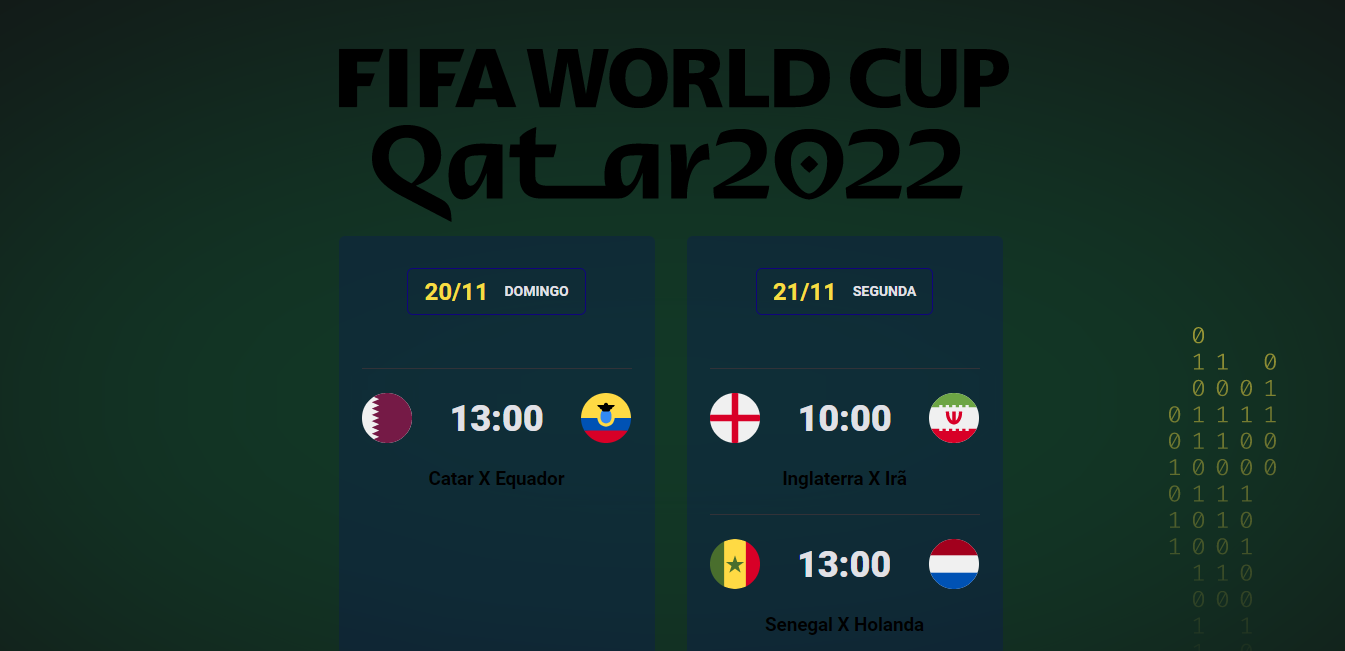
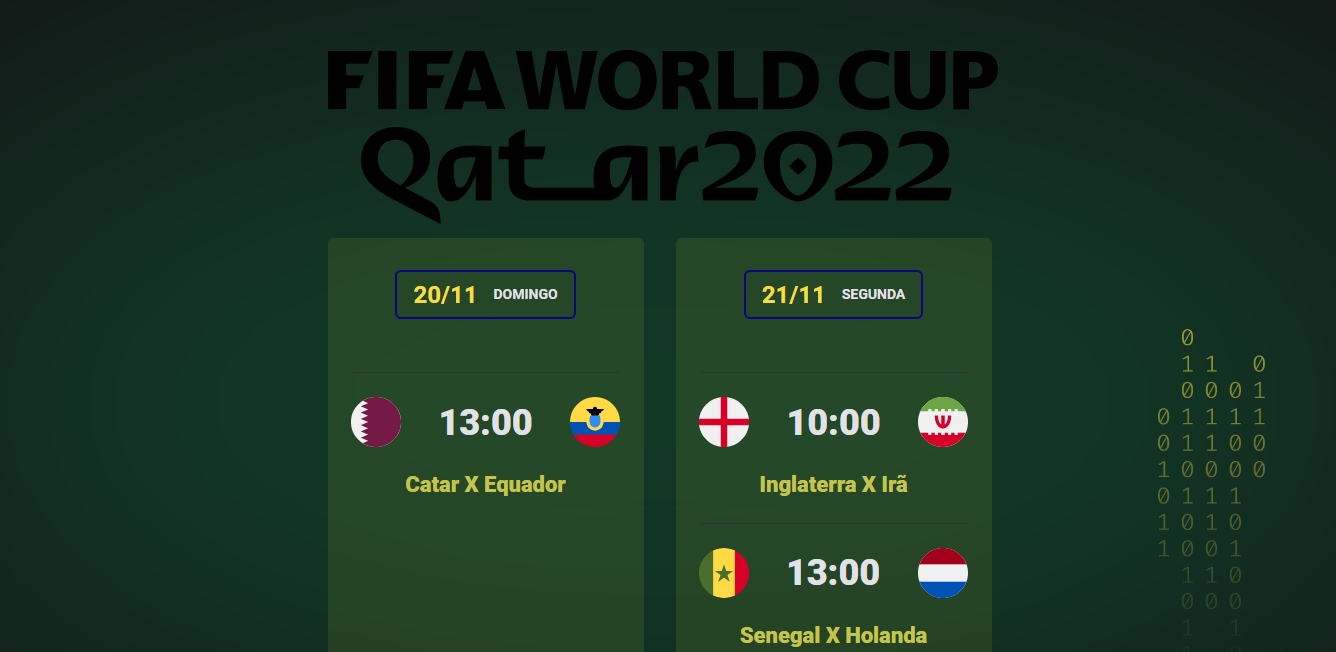
alterações de cores

diff --git a/style.css b/style.css
@@ -34,7 +34,7 @@ body.red {
 body.brasil {
     --card-title-border-color: #10047c;
     --card-color-primary: #047C3F;
-    --card-bg-color: #04067c34;
+    --card-bg-color: #edf03217;
     --bg: url(./assets/bg-brasil.svg)    
 }
 
@@ -86,7 +86,7 @@ header {
     align-items: center;
     justify-content: center;
     padding: 8px 16px;
-    border: 1px solid var(--card-title-border-color);
+    border: 2px solid var(--card-title-border-color);
     border-radius: 6px;
     width: fit-content;
     margin-inline: auto;
@@ -123,6 +123,13 @@ header {
     font-size: 36px;
     line-height: 125%;
     color: #E1E1E6;
+}
+
+.card h3 {
+    font-weight: 900;
+    font-size: 22px;
+    line-height: 125%;
+    color: #c3c54e;
 }
 
 .card h2:hover,
